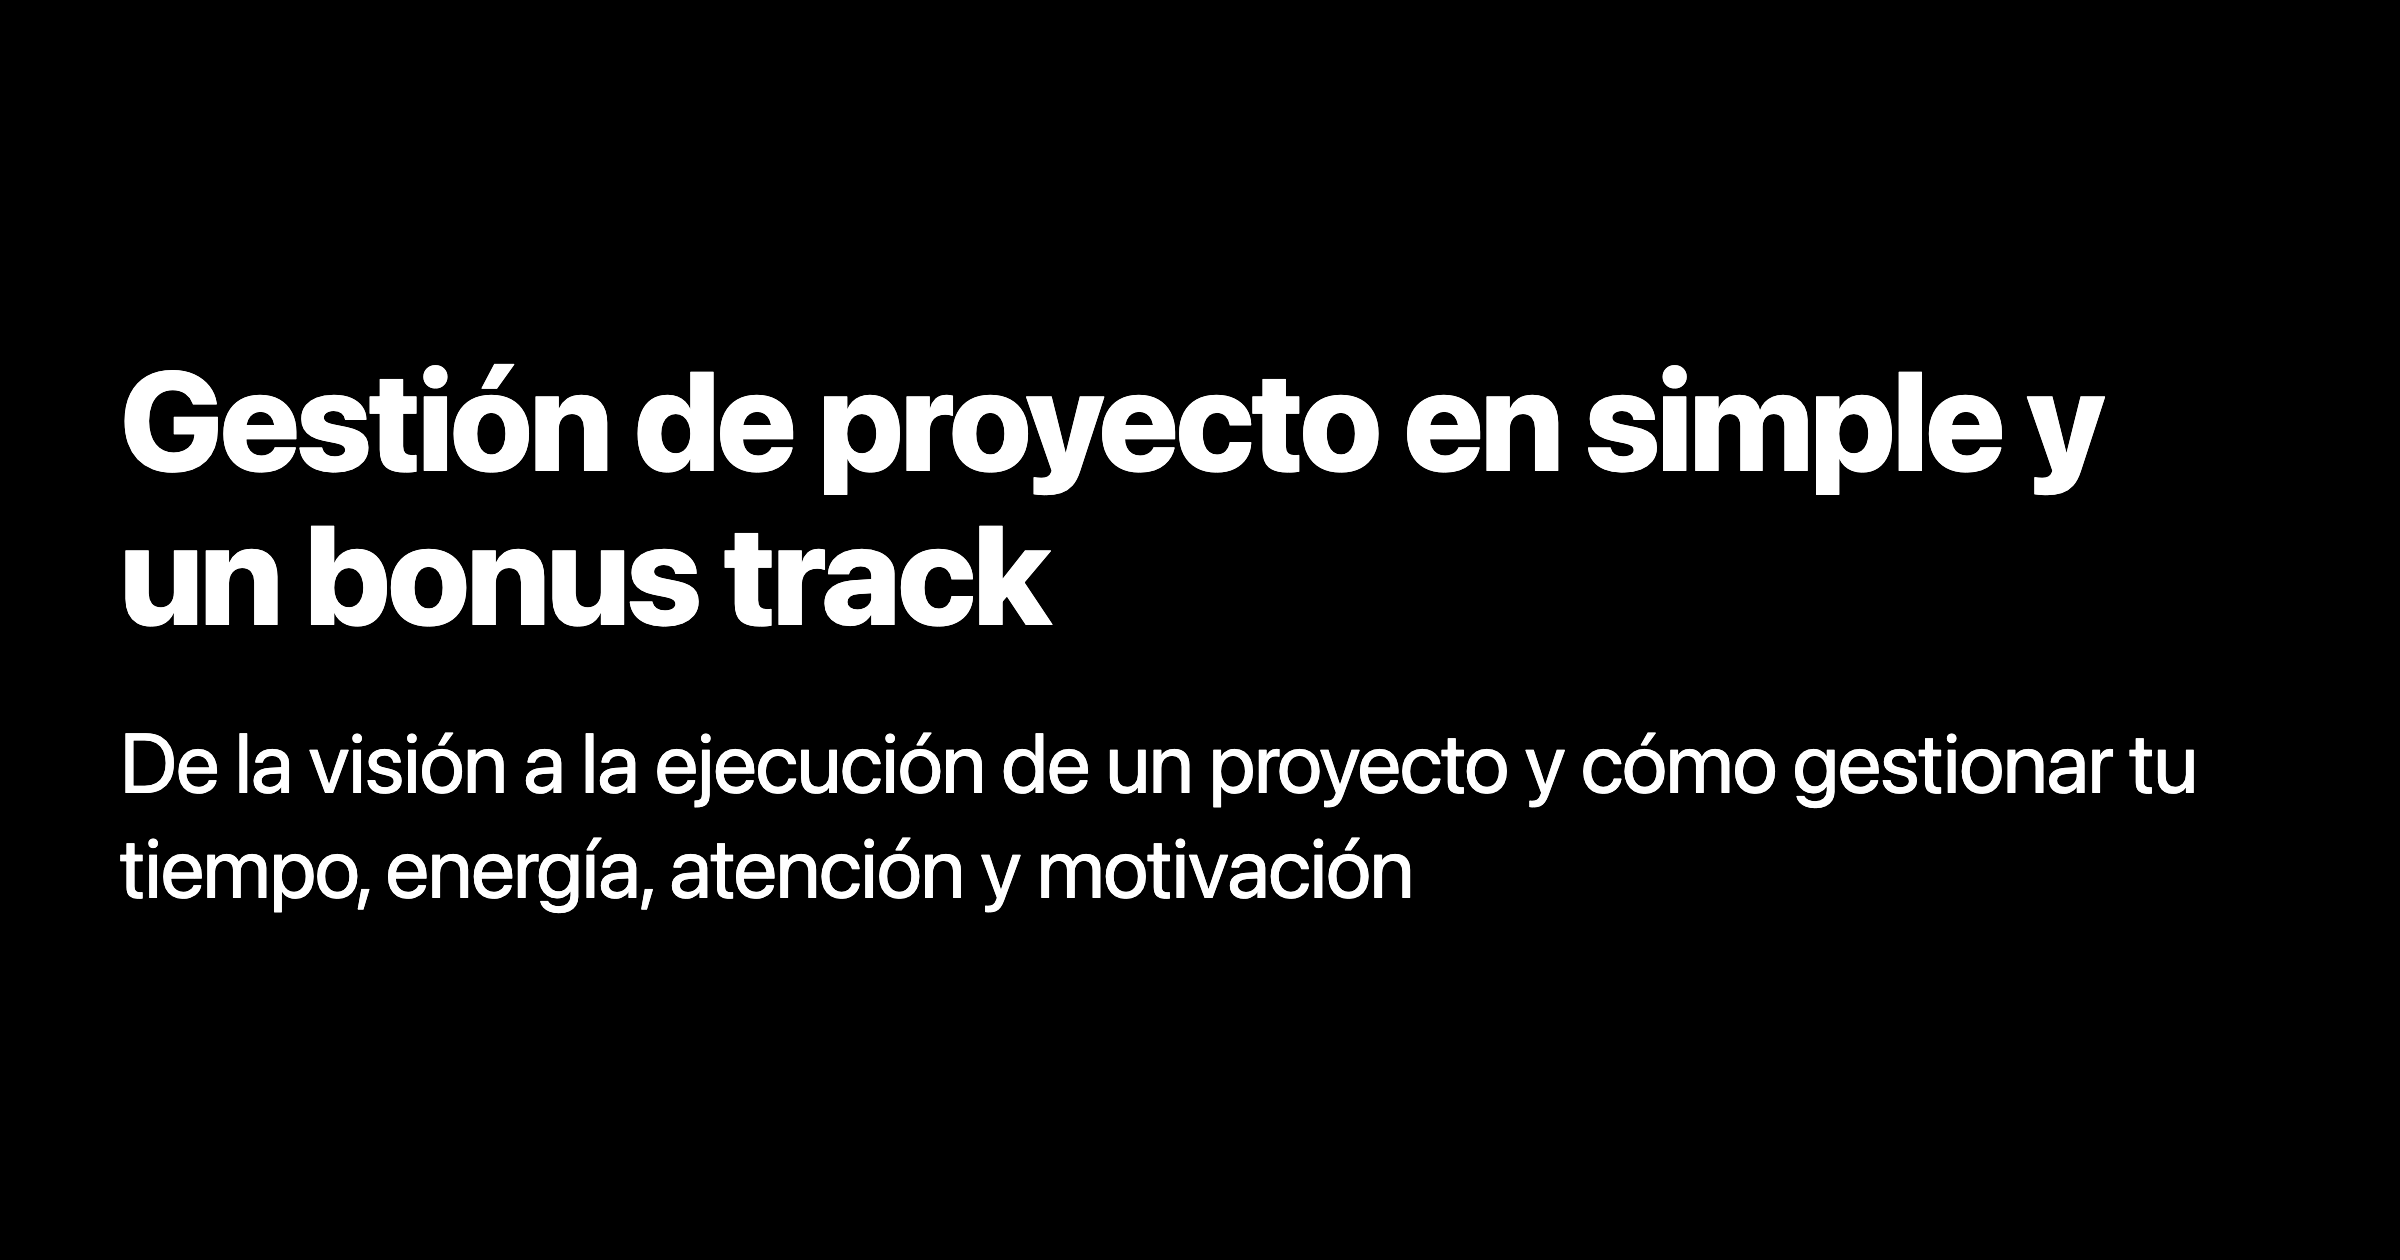
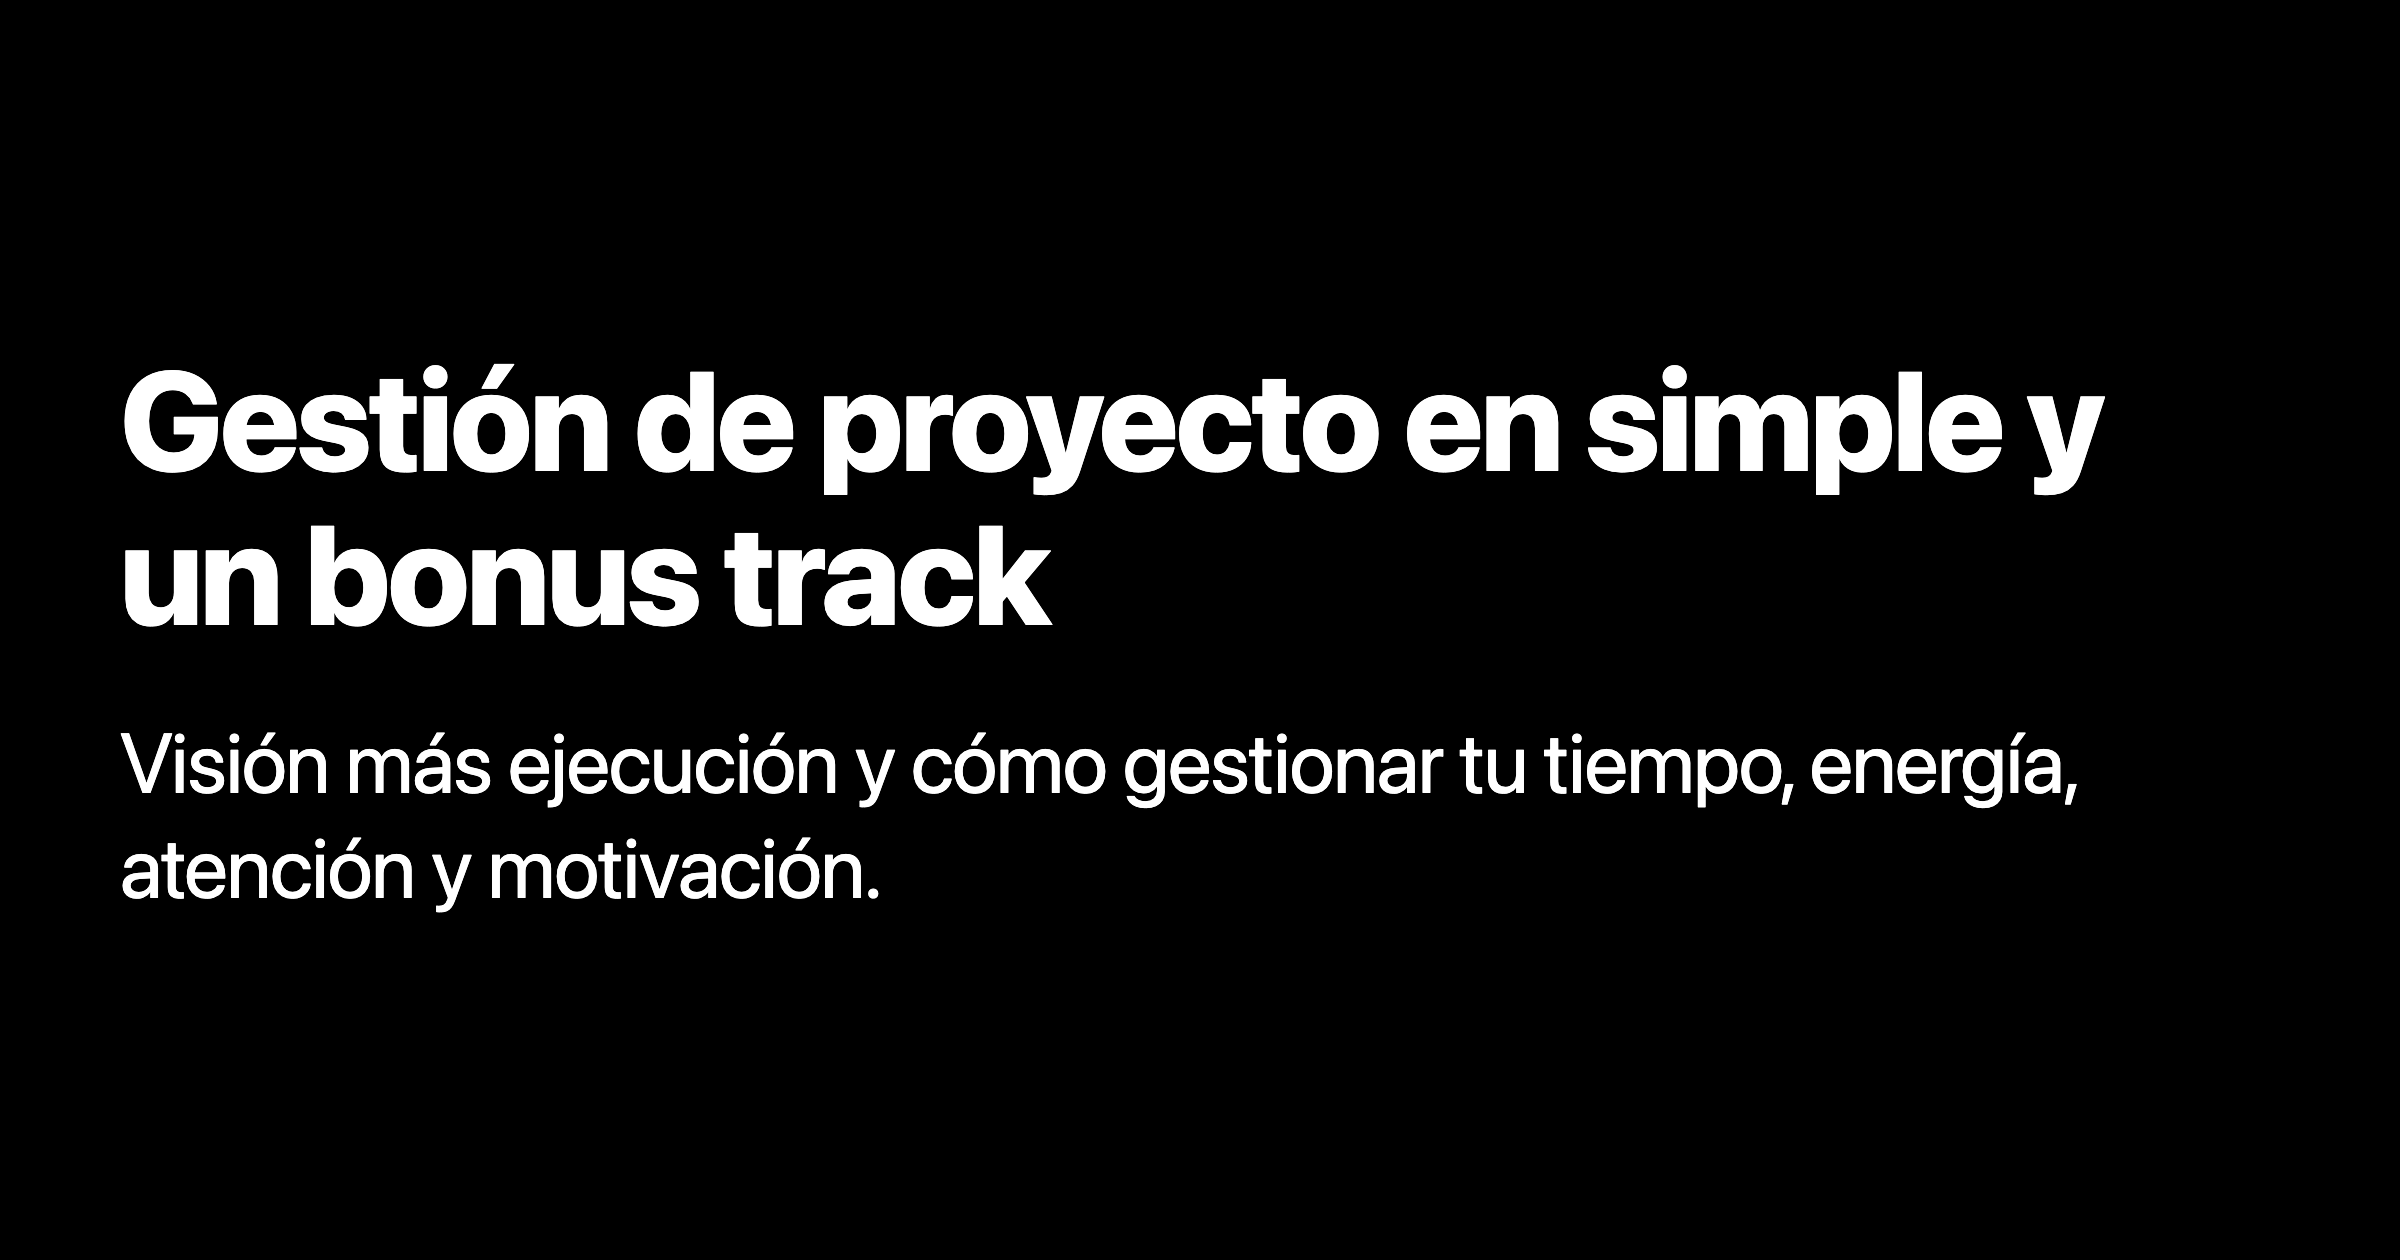
improve previews

Changed region(s): [[0.0312, 0.5881, 0.9062, 0.7429]]

diff --git a/layouts/partials/opengraph.html b/layouts/partials/opengraph.html
@@ -11,12 +11,38 @@
     {{- $ogimage = "/images/og/default.png" -}}
 {{- end -}}
 
+<!-- Open Graph -->
 <meta property="og:title" content="{{ $title }}">
 <meta property="og:description" content="{{ $desc }}">
 <meta property="og:type" content="{{ if .IsPage }}article{{ else }}website{{ end }}">
 <meta property="og:url" content="{{ .Permalink }}">
 <meta property="og:image" content="{{ $ogimage | absURL }}">
+<meta property="og:image:type" content="image/png">
+<meta property="og:image:width" content="2400">
+<meta property="og:image:height" content="1260">
 <meta property="og:site_name" content="{{ site.Title }}">
+
+<!-- LinkedIn specific -->
+<meta property="linkedin:title" content="{{ $title }}">
+<meta property="linkedin:description" content="{{ $desc }}">
+<meta property="linkedin:image" content="{{ $ogimage | absURL }}">
+<meta name="author" content="{{ site.Params.author }}">
+{{- with site.Params.linkedin_author }}
+<meta name="linkedin:author" content="{{ . }}">
+{{- end }}
+
+<!-- Twitter -->
+<meta name="twitter:card" content="summary_large_image">
+<meta name="twitter:title" content="{{ $title }}">
+<meta name="twitter:description" content="{{ $desc }}">
+<meta name="twitter:image" content="{{ $ogimage | absURL }}">
+<meta name="twitter:image:type" content="image/png">
+<meta name="twitter:image:width" content="2400">
+<meta name="twitter:image:height" content="1260">
+{{- with site.Params.twitter_username }}
+<meta name="twitter:creator" content="@{{ . }}">
+<meta name="twitter:site" content="@{{ . }}">
+{{- end }}
 
 {{- if .Date -}}
 <meta property="article:published_time" content="{{ .Date.Format "2006-01-02T15:04:05-07:00" }}">

diff --git a/content/posts/lidera-tu-carrera.md b/content/posts/lidera-tu-carrera.md
@@ -2,9 +2,9 @@
 title = 'Lidera tu carrera'
 date = 2024-02-10T12:23:12-03:00
 draft = false
-tags = ["autoconocimiento"]
+tags = ["autoconocimiento", "carrera"]
 categories = ["desarrollo"]
-description = 'Lidera el desarrollo de tu carrera posicionándote en el lugar que te da mejores oportunidades'
+description = 'Posiciónate en el lugar que te da mejores oportunidades.'
 +++
 Tuve la oportunidad de dar esta charla en la [TechTon](https://techton.jschile.org/), una iniciativa para recaudar fondos por los últimos incendios en Chile y que reunió a diferentes comunidades de tecnología y más de 40 charlistas por más de 26 horas de streaming en el [Twitch de Javascript Chile](https://www.twitch.tv/javascriptchile) ([día 1](https://www.twitch.tv/videos/2057806063) y [día 2](https://www.twitch.tv/videos/2058631454)).
 

diff --git a/content/posts/grit.md b/content/posts/grit.md
@@ -4,7 +4,7 @@ date = 2025-03-04T06:05:00-03:00
 draft = false
 tags = ["grit", "Angela Duckworth"]
 categories = ["desarrollo"]
-description = 'El talento innato, la pasión y motivación estan sobrevalorados'
+description = 'El talento innato, la pasión y motivación estan sobrevalorados.'
 +++
 
 No todo tiene que comenzar con palabras grandes como: **pasión**. A veces la curiosidad o la exploración nos pueden mostrar la relevancia de un tema o una práctica, transformándola en un interés duradero.

diff --git a/content/posts/tomador-de-pedidos.md b/content/posts/tomador-de-pedidos.md
@@ -4,7 +4,7 @@ date = 2024-01-31T23:44:53-03:00
 draft = false
 categories = ["cultura"]
 tags = ["poder"]
-description = 'Acompáñame en esta involución. De resolver problemas completos a tomar pedidos.'
+description = 'Acompáñame en esta involución. De resolver problemas completos a tomar pedidos en un proyecto.'
 +++
 
 Los años de experiencia acumulada en el **desarrollo de productos** nos muestran que, especialmente para un rol senior, las buenas prácticas incluyen:

diff --git a/content/posts/escalar-programa-mentorias.md b/content/posts/escalar-programa-mentorias.md
@@ -1,6 +1,6 @@
 +++
 title = 'Ideas para escalar un programa de mentorías (y otras iniciativas)'
-description = 'Aprende cómo escalar un programa de mentorías de manera efectiva, desde la validación temprana hasta la documentación y el crecimiento sostenible'
+description = 'Cómo escalar un programa de mentorías usando validación temprana, documentación y crecimiento sostenible'
 date = 2024-12-25T00:00:00-04:00
 draft = false
 tags = ["mentorías", "apuntes"]

diff --git a/content/posts/empresa-en-crisis.md b/content/posts/empresa-en-crisis.md
@@ -1,6 +1,6 @@
 +++
 title = 'La empresa en crisis'
-description = 'Descubre cómo la falta de sentido compartido y productividad afecta a las organizaciones. Análisis basado en la teoría de Habermas sobre cohesión institucional'
+description = 'Descubre cómo la falta de sentido compartido y productividad afecta a las organizaciones. Habermas y la cohesión institucional'
 date = 2024-10-22T01:54:07-04:00
 draft = false
 categories = ["cultura"]

diff --git a/content/posts/gestion-de-proyectos.md b/content/posts/gestion-de-proyectos.md
@@ -1,8 +1,10 @@
 +++
 title = 'Gestión de proyecto en simple y un bonus track'
+description = 'Visión más ejecución y cómo gestionar tu tiempo, energía, atención y motivación.'
 date = 2024-02-27T19:31:00-03:00
 draft = true
-description = 'De la visión a la ejecución de un proyecto y cómo gestionar tu tiempo, energía, atención y motivación'
+tags = ["tiempo", "energia", "atencion", "motivacion"]
+categories = ["desarrollo"]
 +++
 
 

diff --git a/content/posts/atencion.md b/content/posts/atencion.md
@@ -1,8 +1,10 @@
 +++
 title = 'Recupera tu atención: la tecnología te roba concentración y autoconciencia'
+description = 'Consejos para mejorar tu concentración y bienestar.'
 date = 2024-04-13T20:22:48-04:00
 draft = false
 categories = ["desarrollo"]
+tags = ["concentración", "bienestar"]
 +++
 
 Si te "bajonea" repasar el pasado o te da ansiedad pensar en el futuro, puede que la tecnología tenga parte de la culpa.

diff --git a/content/posts/ley-parkinson.md b/content/posts/ley-parkinson.md
@@ -1,6 +1,6 @@
 +++
 title = 'La Ley de Parkinson: es real, úsala a tu favor'
-description = 'La Ley de Parkinson afecta tu desempeño y aprende a usarla a tu favor. Los plazos son tus aliados.'
+description = 'La Ley de Parkinson afecta tu desempeño. Los plazos son tus aliados.'
 date = 2024-12-22T01:54:07-04:00
 draft = false
 tags = ["productividad", "gestion-de-proyectos"]

diff --git a/content/posts/LLC.md b/content/posts/LLC.md
@@ -1,5 +1,6 @@
 +++
 title = 'Abrir una empresa (LLC) en Estados Unidos desde Chile y Latinoamérica'
+description = 'Lo básico para para crear tu empresa, EIN, y tu cuenta de Stripe y en un banco gringo.'
 date = 2022-12-25T12:26:44-03:00
 draft = false
 tags = ["llc"]

diff --git a/content/posts/normal.md b/content/posts/normal.md
@@ -1,5 +1,6 @@
 +++
 title = 'La distribución normal ya no es lo que era'
+description = 'Seth Godin sobre cómo la personalización extrema redefine el mercado.'
 date = 2024-01-01T13:35:17-03:00
 draft = false
 categories = ["negocios"]

diff --git a/content/posts/visibilidad.md b/content/posts/visibilidad.md
@@ -1,5 +1,6 @@
 +++
 title = 'Visibilidad como contraparte a la autonomía'
+description = 'Estrategias para manter el alineamiento y evitar la confusión.'
 date = 2024-07-20T21:54:07-04:00
 draft = false
 categories = ["cultura"]
